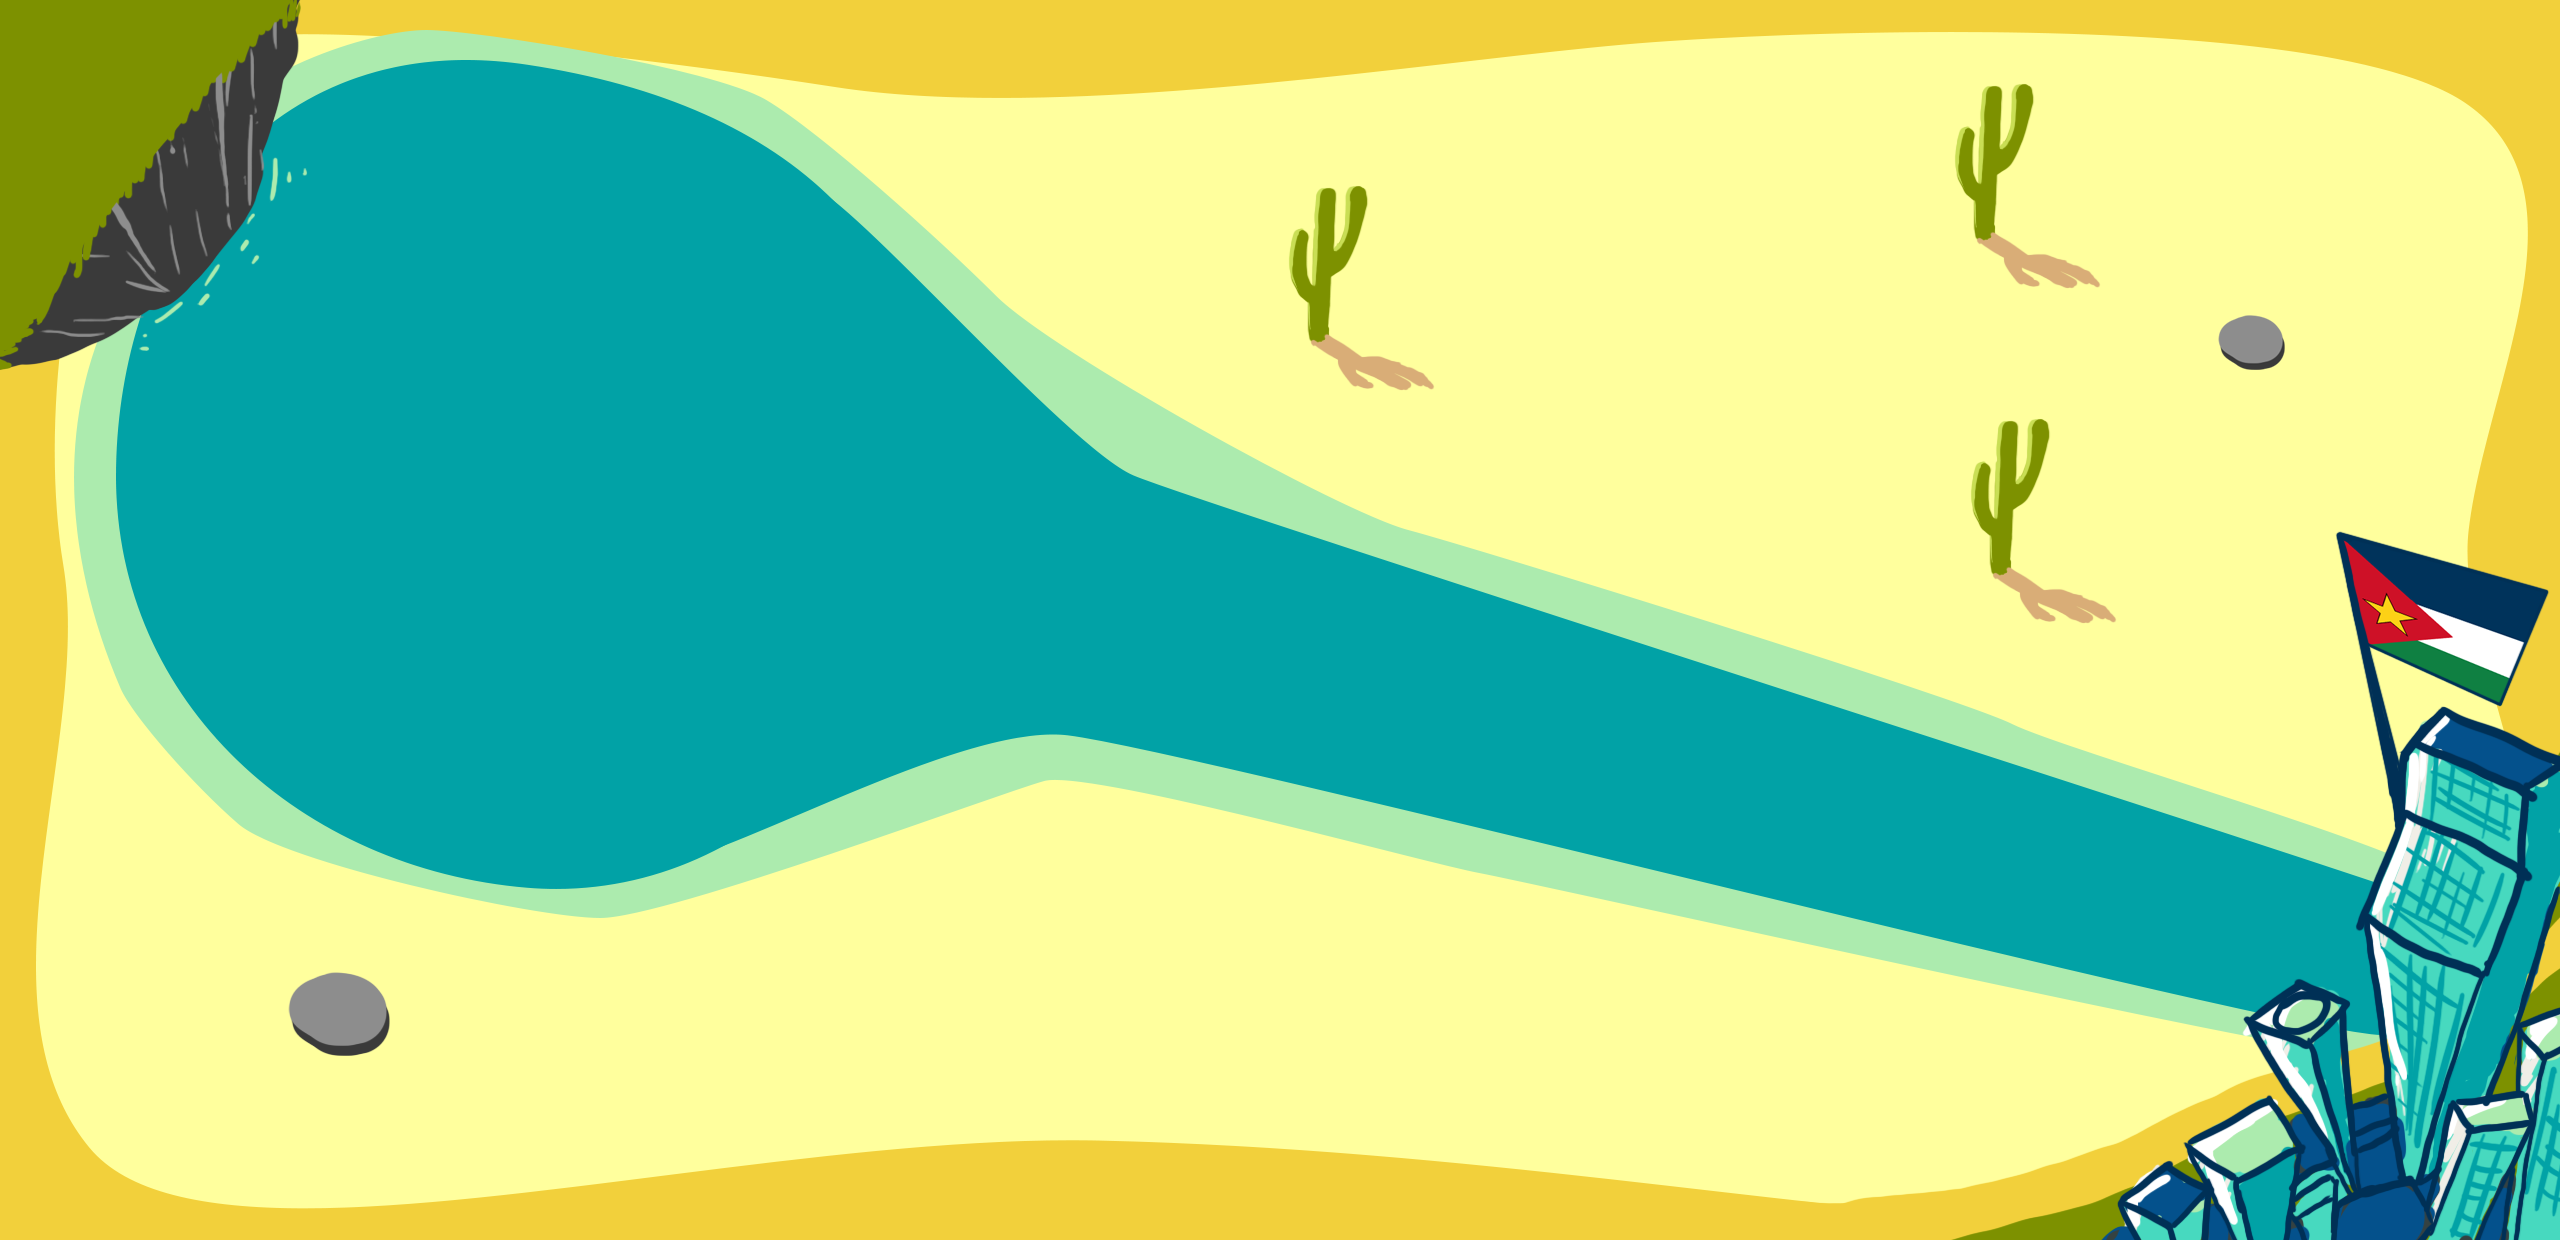
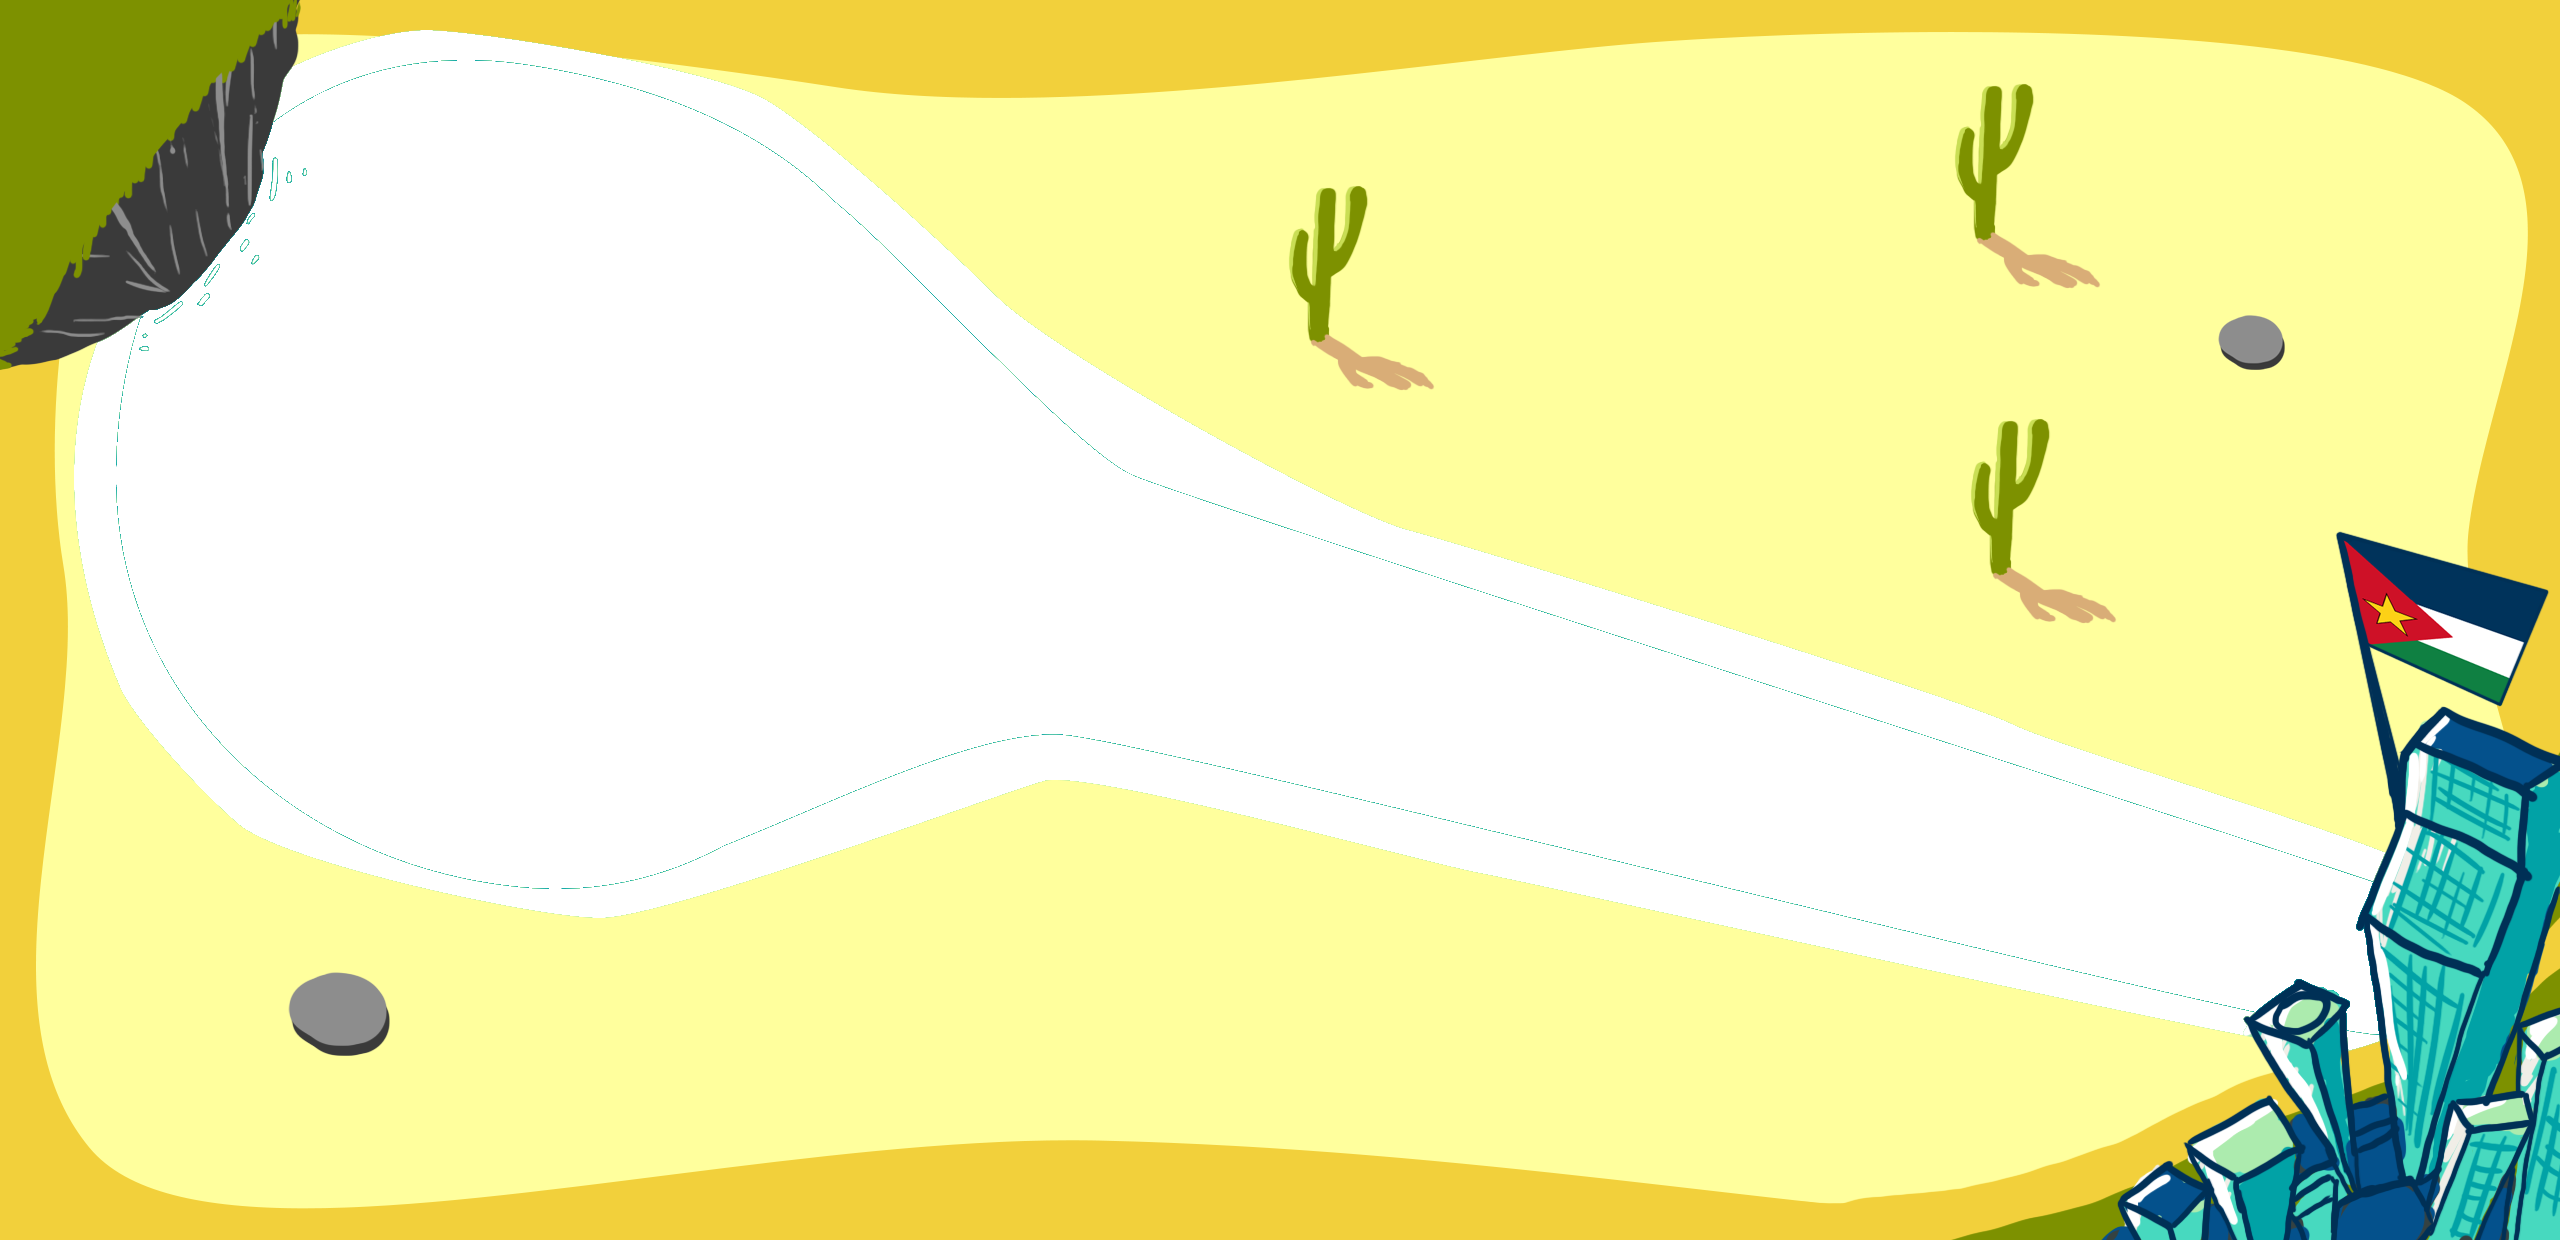
Level 01 - image with opacity

diff --git a/src/app/states/game.ts b/src/app/states/game.ts
@@ -7,8 +7,8 @@ import {Rock} from '../sprites/rock';
 import {Level01} from '../sprites/level-01';
 import {RockMark} from '../sprites/rock-mark';
 import {FinishZone} from '../sprites/finish-zone';
-import {Boat} from "../sprites/boat";
-import {StickObstacle, RockObstacle} from "../sprites/obstacle";
+import {Boat} from '../sprites/boat';
+import {StickObstacle, RockObstacle} from '../sprites/obstacle';
 
 export class GameState extends Phaser.State {
     private mushroom: Mushroom;
@@ -25,7 +25,7 @@ export class GameState extends Phaser.State {
 
     init() {
         this.mousePointer = this.input.mousePointer;
-        // #01A2A6
+        this.stage.backgroundColor = '#01A2A6';
         this.game.physics.startSystem(Phaser.Physics.P2JS);
     }
 
